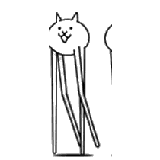
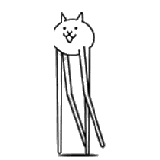
Trim Gross Cat walk frame edge and refresh sprite cache

Changed region(s): [[0.2812, 0.0625, 0.6562, 1.0], [0.625, 0.1562, 0.7188, 0.5312]]

diff --git a/src/main.js b/src/main.js
@@ -74,7 +74,7 @@ let battleAssetsPromise = null;
 let battleLevelConfig = null;
 let battleLevelConfigPromise = null;
 let battleLevelName = "Korea";
-const BATTLE_ASSET_VERSION = "20261104-12";
+const BATTLE_ASSET_VERSION = "20261104-13";
 const BATTLE_AXE_SPRITE_SIZE = 160;
 const BATTLE_AXE_SPRITE_CACHE = new Map();
 const BATTLE_ENEMY_SPRITE_CACHE = new Map();

diff --git a/index.html b/index.html
@@ -12,6 +12,6 @@
 <main class="game" aria-label="Battle Cats fan remake">
   <section class="stage" aria-live="polite"></section>
 </main>
-<script src="src/main.js?v=20261104-12"></script>
+<script src="src/main.js?v=20261104-13"></script>
 </body>
 </html>
